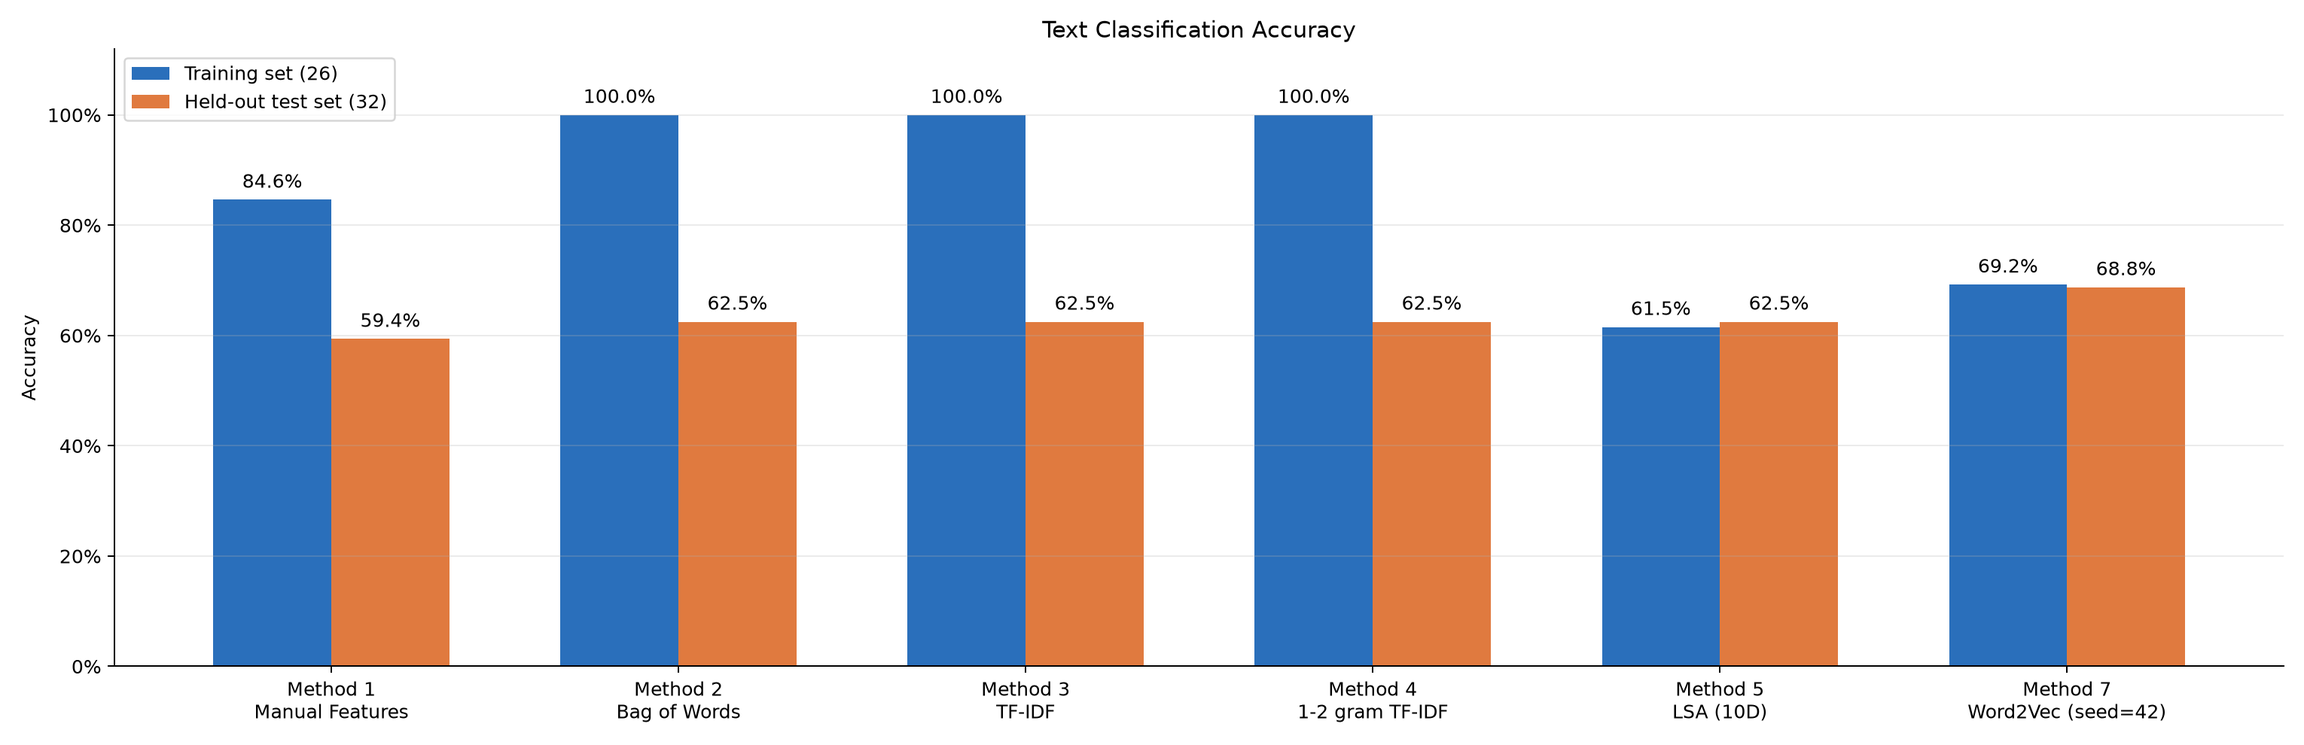
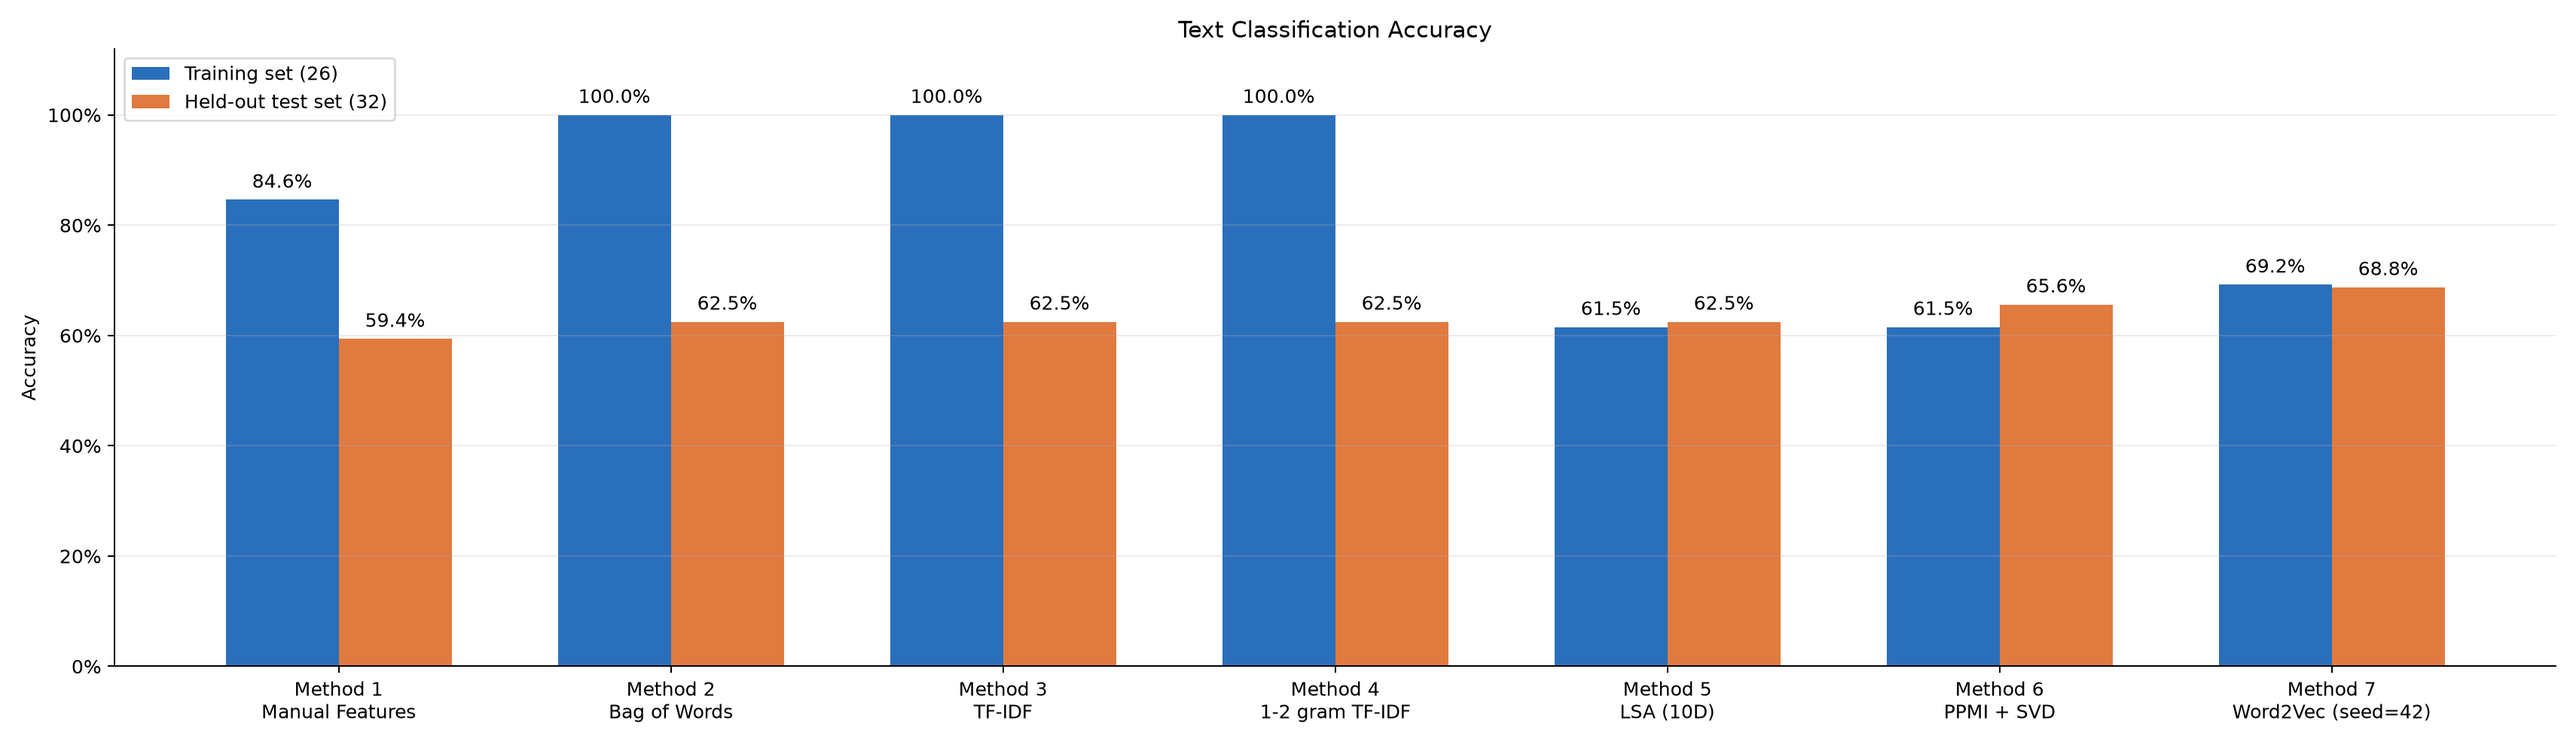
add PPMI SVD feature extraction experiment

diff --git a/bert-classifier-learning/06_ppmi_svd.py b/bert-classifier-learning/06_ppmi_svd.py
@@ -1,0 +1,113 @@
+#!/usr/bin/env python3
+"""第 6 个实验：共现矩阵 + PPMI + SVD 词向量 + 逻辑回归。"""
+
+from __future__ import annotations
+
+import sys
+
+import numpy as np
+
+from bag_of_words_features import tokenize
+from classifier import accuracy, sigmoid, train_logistic_regression
+from evaluation_data import TEST_DATA
+from ppmi_features import PpmiSvdVectorizer
+from training_data import TRAIN_DATA
+
+
+def print_word_contexts(
+    vectorizer: PpmiSvdVectorizer,
+    word: str,
+    count: int = 6,
+) -> None:
+    index = vectorizer.word_to_index[word]
+    context_indices = np.argsort(vectorizer.ppmi[index])[-count:][::-1]
+    print(f'\n“{word}”的最高 PPMI 上下文:')
+    for context_index in context_indices:
+        value = vectorizer.ppmi[index, context_index]
+        if value:
+            print(f"  {vectorizer.vocabulary[context_index]:<8} PPMI={value:.4f}")
+
+
+def print_prediction(
+    text: str,
+    vectorizer: PpmiSvdVectorizer,
+    weights: np.ndarray,
+    bias: float,
+) -> None:
+    tokens = tokenize(text)
+    known_tokens = [token for token in tokens if token in vectorizer.word_to_index]
+    unknown_tokens = [token for token in tokens if token not in vectorizer.word_to_index]
+    vector = vectorizer.transform_one(text)
+    logit = float(vector @ weights + bias)
+    probability = float(sigmoid(logit))
+    label = "正面" if probability >= 0.5 else "负面"
+
+    print(f'\n文本: "{text}"')
+    print(f"分词: {tokens}")
+    print(f"参与平均的已知词: {known_tokens}")
+    print(f"忽略的未知词: {unknown_tokens}")
+    print(f"句子向量 x.shape = {vector.shape}")
+    print(f"完整句子向量 x = {np.round(vector, 4).tolist()}")
+    print(f"Wx+b = {logit:.4f}")
+    print(f"P(正面) = {probability:.4f}")
+    print(f"预测={label}")
+
+
+def evaluate_test_set(
+    vectorizer: PpmiSvdVectorizer,
+    weights: np.ndarray,
+    bias: float,
+) -> float:
+    texts = [text for text, _, _ in TEST_DATA]
+    labels = np.array([label for _, label, _ in TEST_DATA], dtype=np.float64)
+    features = vectorizer.transform(texts)
+    score = accuracy(features, labels, weights, bias)
+
+    print("\n留出测试集:")
+    print(f"  总体准确率: {score:.1%}")
+    for group in sorted({group for _, _, group in TEST_DATA}):
+        indices = [index for index, item in enumerate(TEST_DATA) if item[2] == group]
+        group_score = accuracy(features[indices], labels[indices], weights, bias)
+        correct = round(group_score * len(indices))
+        print(f"  {group:<8}: {group_score:.1%} ({correct}/{len(indices)})")
+    return score
+
+
+def main() -> None:
+    train_texts = [text for text, _ in TRAIN_DATA]
+    train_labels = np.array([label for _, label in TRAIN_DATA], dtype=np.float64)
+
+    vectorizer = PpmiSvdVectorizer(n_components=10, window_size=2)
+    train_features = vectorizer.fit_transform(train_texts)
+    weights, bias = train_logistic_regression(train_features, train_labels)
+    train_score = accuracy(train_features, train_labels, weights, bias)
+
+    print("=" * 64)
+    print("实验 06：共现矩阵 + PPMI + SVD + 逻辑回归")
+    print("=" * 64)
+    print(f"训练样本: {len(TRAIN_DATA)} 条")
+    print(f"上下文窗口: 左右各 {vectorizer.window_size} 个词")
+    print(f"词表大小: {len(vectorizer.vocabulary)}")
+    print(f"共现矩阵.shape = {vectorizer.cooccurrence.shape}")
+    print(f"共现矩阵非零元素 = {np.count_nonzero(vectorizer.cooccurrence)}")
+    print(f"PPMI矩阵.shape = {vectorizer.ppmi.shape}")
+    print(f"PPMI矩阵非零元素 = {np.count_nonzero(vectorizer.ppmi)}")
+    print(f"每个词的SVD向量.shape = {vectorizer.word_embeddings.shape}")
+    print(f"句子训练矩阵 X.shape = {train_features.shape}")
+    print(f"保留PPMI矩阵能量比例 = {vectorizer.explained_energy_ratio:.1%}")
+    print(f"训练准确率 = {train_score:.1%}")
+
+    print_word_contexts(vectorizer, "满意")
+
+    if len(sys.argv) > 1:
+        print_prediction(" ".join(sys.argv[1:]), vectorizer, weights, bias)
+        return
+
+    print_prediction("这个产品不怎么好", vectorizer, weights, bias)
+    evaluate_test_set(vectorizer, weights, bias)
+    print("\nPPMI和SVD不使用情感标签，也没有反向传播。")
+    print("它先从局部词语共现中得到词向量，再平均成句子特征。")
+
+
+if __name__ == "__main__":
+    main()

diff --git a/bert-classifier-learning/ppmi_features.py b/bert-classifier-learning/ppmi_features.py
@@ -1,0 +1,105 @@
+"""方法 6：共现统计 + PPMI + SVD 词向量。"""
+
+import numpy as np
+
+from bag_of_words_features import tokenize
+
+
+class PpmiSvdVectorizer:
+    """从训练文本的局部共现关系中生成低维词向量。"""
+
+    def __init__(self, n_components: int = 10, window_size: int = 2) -> None:
+        self.n_components = n_components
+        self.window_size = window_size
+        self.vocabulary: list[str] = []
+        self.word_to_index: dict[str, int] = {}
+        self.cooccurrence = np.empty((0, 0), dtype=np.float64)
+        self.ppmi = np.empty((0, 0), dtype=np.float64)
+        self.word_embeddings = np.empty((0, 0), dtype=np.float64)
+        self.singular_values = np.array([], dtype=np.float64)
+        self.explained_energy_ratio = 0.0
+
+    def fit(self, texts: list[str]) -> None:
+        tokenized_texts = [tokenize(text) for text in texts]
+        self.vocabulary = sorted(
+            {token for tokens in tokenized_texts for token in tokens}
+        )
+        self.word_to_index = {
+            word: index for index, word in enumerate(self.vocabulary)
+        }
+
+        vocabulary_size = len(self.vocabulary)
+        self.cooccurrence = np.zeros(
+            (vocabulary_size, vocabulary_size),
+            dtype=np.float64,
+        )
+
+        for tokens in tokenized_texts:
+            for target_position, target_word in enumerate(tokens):
+                left = max(0, target_position - self.window_size)
+                right = min(len(tokens), target_position + self.window_size + 1)
+                target_index = self.word_to_index[target_word]
+
+                for context_position in range(left, right):
+                    if context_position == target_position:
+                        continue
+                    context_word = tokens[context_position]
+                    context_index = self.word_to_index[context_word]
+                    self.cooccurrence[target_index, context_index] += 1
+
+        self.ppmi = self._calculate_ppmi(self.cooccurrence)
+        left_vectors, singular_values, _ = np.linalg.svd(
+            self.ppmi,
+            full_matrices=False,
+        )
+
+        component_count = min(self.n_components, vocabulary_size)
+        self.singular_values = singular_values
+        self.word_embeddings = (
+            left_vectors[:, :component_count]
+            * np.sqrt(singular_values[:component_count])
+        )
+
+        total_energy = float(np.sum(singular_values**2))
+        retained_energy = float(np.sum(singular_values[:component_count] ** 2))
+        self.explained_energy_ratio = retained_energy / total_energy
+
+    @staticmethod
+    def _calculate_ppmi(cooccurrence: np.ndarray) -> np.ndarray:
+        total = float(cooccurrence.sum())
+        row_totals = cooccurrence.sum(axis=1, keepdims=True)
+        column_totals = cooccurrence.sum(axis=0, keepdims=True)
+        expected_denominator = row_totals @ column_totals
+
+        ppmi = np.zeros_like(cooccurrence)
+        observed = cooccurrence > 0
+        ratio = (
+            cooccurrence[observed]
+            * total
+            / expected_denominator[observed]
+        )
+        ppmi[observed] = np.maximum(np.log2(ratio), 0.0)
+        return ppmi
+
+    def transform_one(self, text: str) -> np.ndarray:
+        if not self.word_embeddings.size:
+            raise RuntimeError("必须先使用训练文本调用 fit()")
+
+        vectors = [
+            self.word_embeddings[self.word_to_index[token]]
+            for token in tokenize(text)
+            if token in self.word_to_index
+        ]
+        if not vectors:
+            return np.zeros(self.word_embeddings.shape[1], dtype=np.float64)
+
+        sentence_vector = np.mean(vectors, axis=0)
+        norm = np.linalg.norm(sentence_vector)
+        return sentence_vector / norm if norm else sentence_vector
+
+    def transform(self, texts: list[str]) -> np.ndarray:
+        return np.stack([self.transform_one(text) for text in texts])
+
+    def fit_transform(self, texts: list[str]) -> np.ndarray:
+        self.fit(texts)
+        return self.transform(texts)

diff --git a/bert-classifier-learning/compare_accuracy.py b/bert-classifier-learning/compare_accuracy.py
@@ -12,6 +12,7 @@ from evaluation_data import TEST_DATA
 from lsa_features import LsaVectorizer
 from manual_features import extract_features
 from ngram_features import NgramTfidfVectorizer
+from ppmi_features import PpmiSvdVectorizer
 from tfidf_features import TfidfVectorizer
 from training_data import TRAIN_DATA
 from word2vec_features import Word2VecVectorizer
@@ -58,6 +59,11 @@ def main() -> None:
     lsa_test = lsa_vectorizer.transform(test_texts)
     lsa_scores = train_and_evaluate(lsa_train, lsa_test)
 
+    ppmi_vectorizer = PpmiSvdVectorizer(n_components=10, window_size=2)
+    ppmi_train = ppmi_vectorizer.fit_transform(train_texts)
+    ppmi_test = ppmi_vectorizer.transform(test_texts)
+    ppmi_scores = train_and_evaluate(ppmi_train, ppmi_test)
+
     word2vec_vectorizer = Word2VecVectorizer(vector_size=50, seed=42)
     word2vec_train = word2vec_vectorizer.fit_transform(train_texts)
     word2vec_test = word2vec_vectorizer.transform(test_texts)
@@ -69,6 +75,7 @@ def main() -> None:
         "Method 3\nTF-IDF",
         "Method 4\n1-2 gram TF-IDF",
         "Method 5\nLSA (10D)",
+        "Method 6\nPPMI + SVD",
         "Method 7\nWord2Vec (seed=42)",
     ]
     train_scores = np.array(
@@ -78,6 +85,7 @@ def main() -> None:
             tfidf_scores[0],
             ngram_scores[0],
             lsa_scores[0],
+            ppmi_scores[0],
             word2vec_scores[0],
         ]
     )
@@ -88,13 +96,14 @@ def main() -> None:
             tfidf_scores[1],
             ngram_scores[1],
             lsa_scores[1],
+            ppmi_scores[1],
             word2vec_scores[1],
         ]
     )
     positions = np.arange(len(method_names))
     width = 0.34
 
-    fig, ax = plt.subplots(figsize=(17, 5.5))
+    fig, ax = plt.subplots(figsize=(19, 5.5))
     train_bars = ax.bar(
         positions - width / 2,
         train_scores,
@@ -132,6 +141,7 @@ def main() -> None:
     print(f"方法 3 TF-IDF      训练准确率={tfidf_scores[0]:.1%}  测试准确率={tfidf_scores[1]:.1%}")
     print(f"方法 4 N-gram      训练准确率={ngram_scores[0]:.1%}  测试准确率={ngram_scores[1]:.1%}")
     print(f"方法 5 LSA         训练准确率={lsa_scores[0]:.1%}  测试准确率={lsa_scores[1]:.1%}")
+    print(f"方法 6 PPMI + SVD  训练准确率={ppmi_scores[0]:.1%}  测试准确率={ppmi_scores[1]:.1%}")
     print(f"方法 7 Word2Vec    训练准确率={word2vec_scores[0]:.1%}  测试准确率={word2vec_scores[1]:.1%}")
     print(f"图表已保存: {OUTPUT_PATH}")
 

diff --git a/bert-classifier-learning/README.md b/bert-classifier-learning/README.md
@@ -12,7 +12,7 @@
 | 03 | TF-IDF | 逻辑回归 `Wx + b` | 已实现 |
 | 04 | N-gram | 逻辑回归 `Wx + b` | 已实现 |
 | 05 | LSA（TF-IDF + SVD） | 逻辑回归 `Wx + b` | 已实现 |
-| 06 | PPMI + SVD | 逻辑回归 `Wx + b` | 待实现 |
+| 06 | PPMI + SVD | 逻辑回归 `Wx + b` | 已实现 |
 | 07 | Word2Vec | 逻辑回归 `Wx + b` | 已实现 |
 | 08 | RNN / LSTM | 线性分类层 | 待实现 |
 | 09 | BERT | 线性分类层 | 待实现 |
@@ -125,6 +125,24 @@ uv run python 05_lsa.py "这个产品不怎么好"
 
 LSA 先生成与方法 3 相同的 49 维 TF-IDF，再使用训练集的 SVD 将每句话压缩
 为 10 维稠密向量。这个特征学习过程不使用情感标签，也没有反向传播。
+
+## 第 6 步：PPMI + SVD
+
+运行：
+
+```bash
+uv run python 06_ppmi_svd.py
+```
+
+测试自己的句子：
+
+```bash
+uv run python 06_ppmi_svd.py "这个产品不怎么好"
+```
+
+这个实验通过左右各两个词的滑动窗口建立词-上下文共现矩阵，用 PPMI 衡量
+词语关联强度，再用 SVD 为每个词生成 10 维向量。句子特征是已知词向量的
+平均值并进行 L2 归一化。
 
 ## 第 7 步：Word2Vec
 
